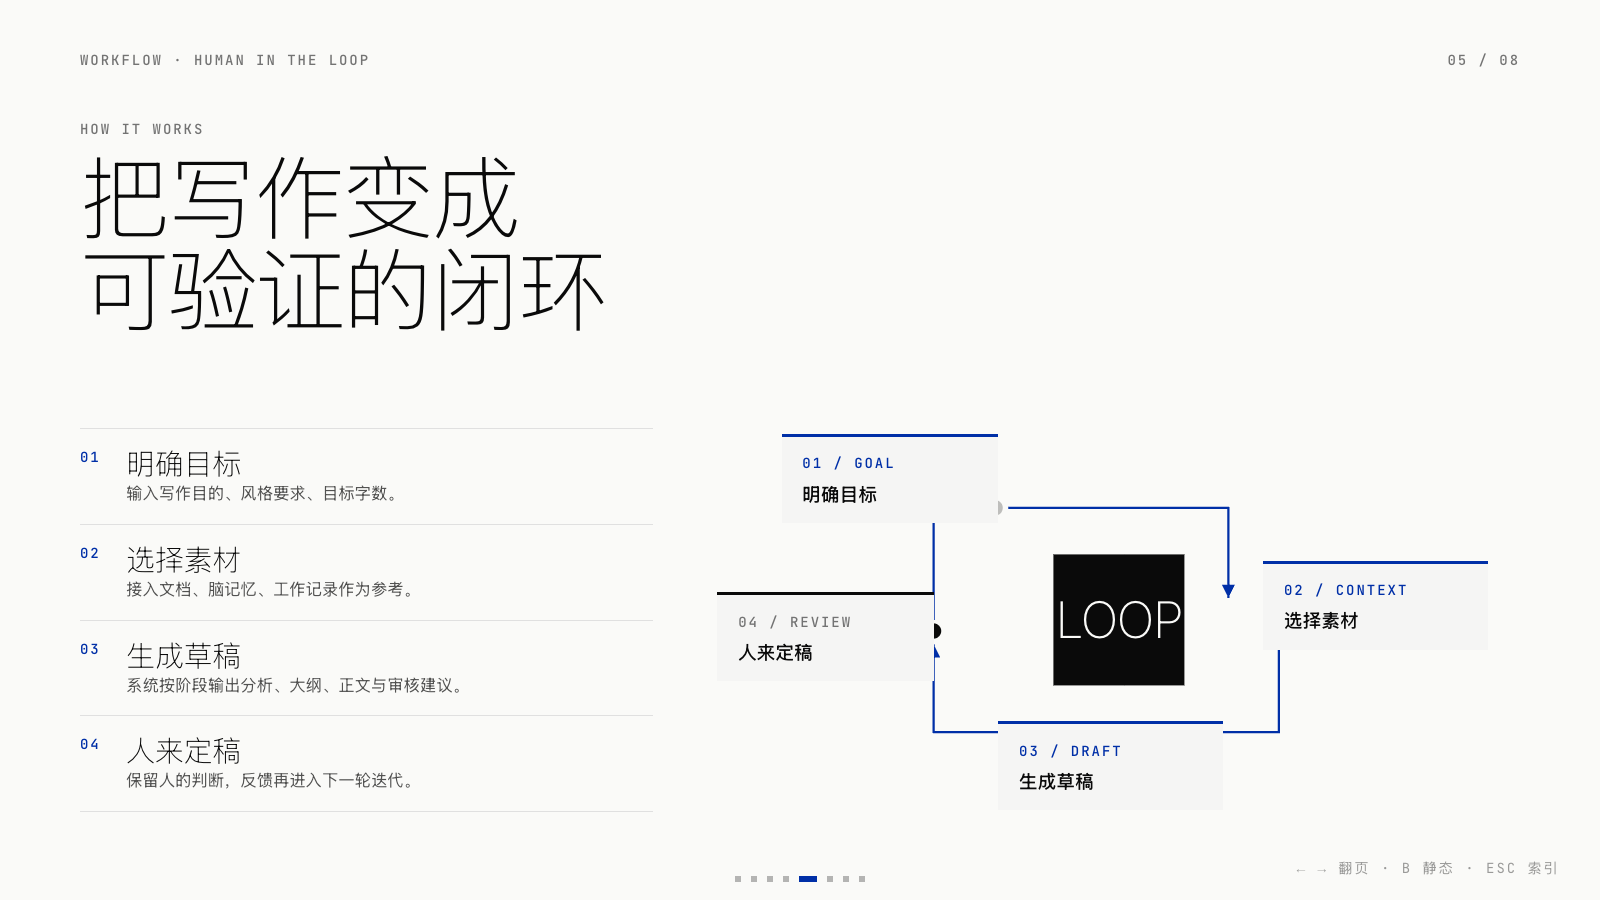
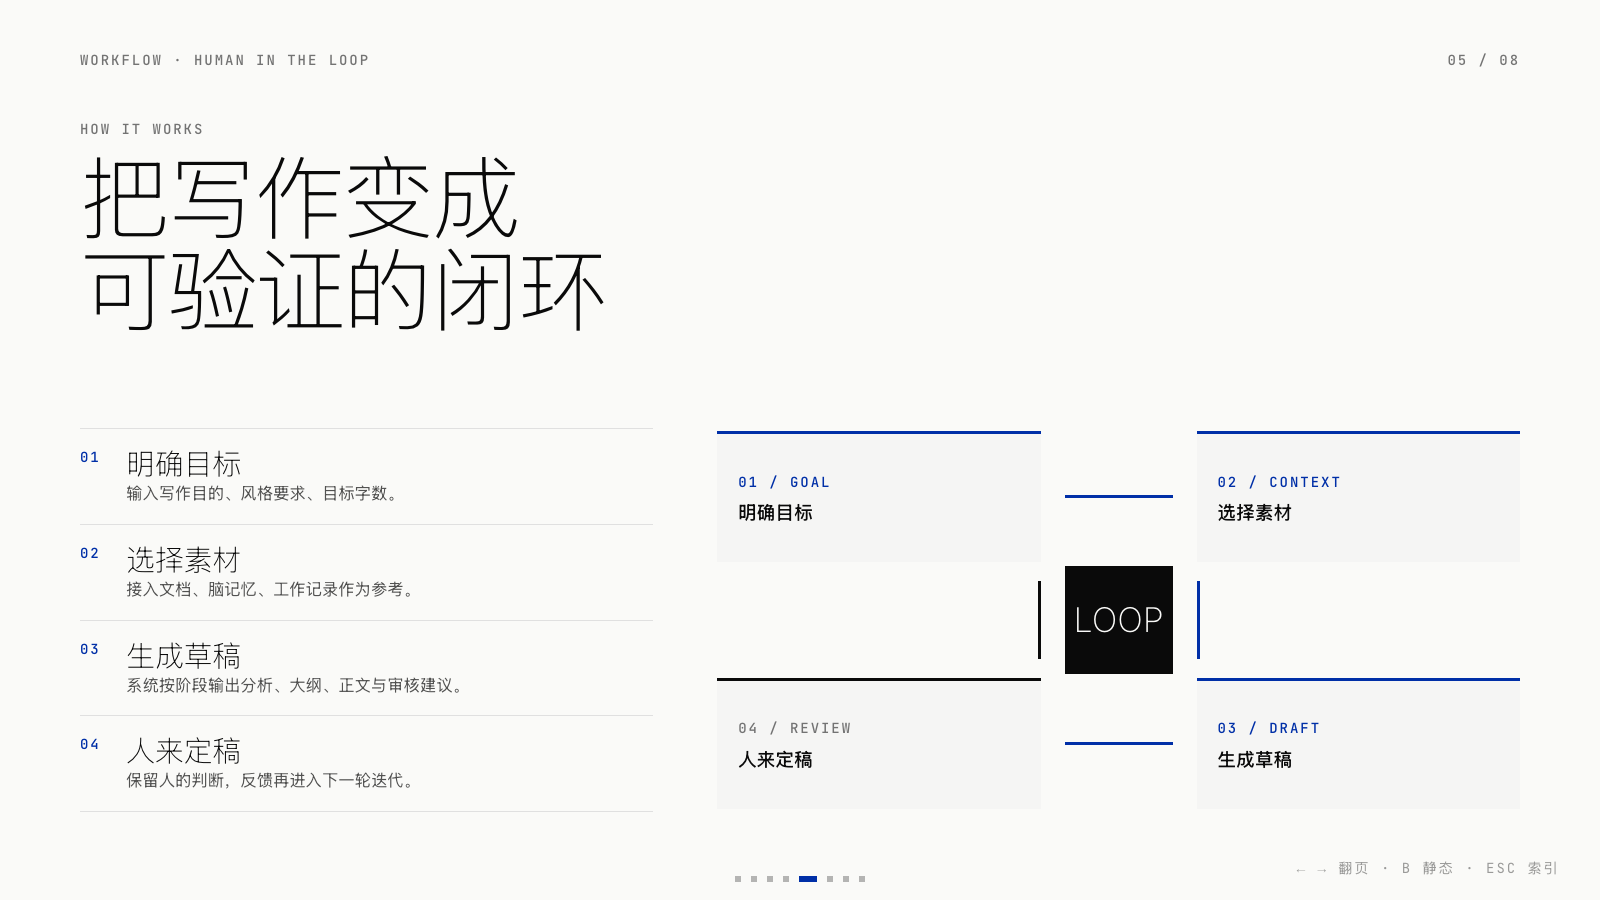
Fix AI deck diagram layouts

diff --git a/ai-competition-ppt/index.html b/ai-competition-ppt/index.html
@@ -1346,35 +1346,30 @@
             <p class="body-sm" style="color:rgba(255,255,255,.72)">生成内容、修改文档、沉淀反馈，回到工作现场。</p>
           </div>
         </div>
-        <div style="position:relative;min-height:43vh;display:grid;place-items:center">
-          <svg viewBox="0 0 620 360" width="100%" height="100%" aria-hidden="true" style="position:absolute;inset:0">
-            <line x1="164" y1="84" x2="304" y2="154" stroke="rgba(255,255,255,.34)" stroke-width="1"/>
-            <line x1="164" y1="180" x2="296" y2="180" stroke="rgba(255,255,255,.34)" stroke-width="1"/>
-            <line x1="164" y1="276" x2="304" y2="206" stroke="rgba(255,255,255,.34)" stroke-width="1"/>
-            <line x1="394" y1="180" x2="500" y2="180" stroke="var(--accent)" stroke-width="2"/>
-            <rect x="40" y="54" width="150" height="60" fill="none" stroke="rgba(255,255,255,.26)" stroke-width="1"/>
-            <rect x="40" y="150" width="150" height="60" fill="none" stroke="rgba(255,255,255,.26)" stroke-width="1"/>
-            <rect x="40" y="246" width="150" height="60" fill="none" stroke="rgba(255,255,255,.26)" stroke-width="1"/>
-          </svg>
-          <div style="position:absolute;z-index:1;left:5%;top:12%;width:24%;padding:1.2vh 1vw;border-top:2px solid rgba(255,255,255,.34)">
+        <div style="min-height:43vh;display:grid;grid-template-columns:minmax(0,1.16fr) 56px 124px 64px minmax(0,.9fr);grid-template-rows:repeat(3,minmax(72px,1fr));gap:1.8vh 1.2vw;align-items:center">
+          <div style="grid-column:1;grid-row:1;align-self:stretch;padding:1.35vh 1vw;border-top:2px solid rgba(255,255,255,.34);background:rgba(255,255,255,.035);display:flex;flex-direction:column;justify-content:center">
             <div class="t-meta" style="color:rgba(255,255,255,.66)">01 / DOC</div>
             <div style="margin-top:.7vh;font-family:var(--sans),var(--sans-zh);font-size:max(16px,1vw);font-weight:500;color:#fff">当前文档</div>
           </div>
-          <div style="position:absolute;z-index:1;left:5%;top:39%;width:24%;padding:1.2vh 1vw;border-top:2px solid rgba(255,255,255,.34)">
+          <div style="grid-column:2;grid-row:1;width:100%;height:1px;background:rgba(255,255,255,.34)"></div>
+          <div style="grid-column:1;grid-row:2;align-self:stretch;padding:1.35vh 1vw;border-top:2px solid rgba(255,255,255,.34);background:rgba(255,255,255,.035);display:flex;flex-direction:column;justify-content:center">
             <div class="t-meta" style="color:rgba(255,255,255,.66)">02 / MEMORY</div>
             <div style="margin-top:.7vh;font-family:var(--sans),var(--sans-zh);font-size:max(16px,1vw);font-weight:500;color:#fff">脑记忆</div>
           </div>
-          <div style="position:absolute;z-index:1;left:5%;bottom:9%;width:24%;padding:1.2vh 1vw;border-top:2px solid rgba(255,255,255,.34)">
+          <div style="grid-column:2;grid-row:2;width:100%;height:2px;background:rgba(255,255,255,.42)"></div>
+          <div style="grid-column:1;grid-row:3;align-self:stretch;padding:1.35vh 1vw;border-top:2px solid rgba(255,255,255,.34);background:rgba(255,255,255,.035);display:flex;flex-direction:column;justify-content:center">
             <div class="t-meta" style="color:rgba(255,255,255,.66)">03 / LOG</div>
             <div style="margin-top:.7vh;font-family:var(--sans),var(--sans-zh);font-size:max(16px,1vw);font-weight:500;color:#fff">工作记录</div>
           </div>
-          <div style="position:absolute;z-index:1;left:50%;top:50%;transform:translate(-50%,-50%);width:8.8vw;height:8.8vw;min-width:118px;min-height:118px;background:var(--accent-bright);display:flex;flex-direction:column;align-items:center;justify-content:center;color:#fff">
-            <div style="font-family:var(--sans);font-size:min(3.4vw,6vh);font-weight:200;line-height:.9;letter-spacing:-.035em">AI</div>
+          <div style="grid-column:2;grid-row:3;width:100%;height:1px;background:rgba(255,255,255,.34)"></div>
+          <div style="grid-column:3;grid-row:1 / 4;align-self:center;justify-self:center;width:124px;height:124px;background:var(--accent-bright);display:flex;flex-direction:column;align-items:center;justify-content:center;color:#fff">
+            <div style="font-family:var(--sans);font-size:52px;font-weight:200;line-height:.9">AI</div>
             <div class="t-meta" style="margin-top:1vh;color:rgba(255,255,255,.72);letter-spacing:.16em">CONTEXT</div>
           </div>
-          <div style="position:absolute;z-index:1;right:0;top:50%;transform:translateY(-50%);width:17%;padding:1.8vh 1vw;background:var(--paper);color:var(--ink);border-top:3px solid var(--accent-bright)">
+          <div style="grid-column:4;grid-row:2;width:100%;height:2px;background:var(--accent-bright)"></div>
+          <div style="grid-column:5;grid-row:1 / 4;align-self:center;padding:2vh 1.2vw;background:var(--paper);color:var(--ink);border-top:3px solid var(--accent-bright)">
             <div class="t-meta" style="color:var(--accent)">OUTPUT</div>
-            <div style="margin-top:.8vh;font-family:var(--sans),var(--sans-zh);font-size:max(16px,1vw);font-weight:500;color:var(--text-primary);line-height:1.35">生成<br/>修改<br/>沉淀</div>
+            <div style="margin-top:1vh;font-family:var(--sans),var(--sans-zh);font-size:max(17px,1.08vw);font-weight:500;color:var(--text-primary);line-height:1.42">生成内容<br/>修改文档<br/>沉淀反馈</div>
           </div>
         </div>
       </div>
@@ -1412,39 +1407,28 @@
             <div><h3 class="h-md" style="font-size:max(22px,1.8vw)">人来定稿</h3><p class="body-sm">保留人的判断，反馈再进入下一轮迭代。</p></div>
           </div>
         </div>
-        <div style="position:relative;min-height:44vh;display:grid;place-items:center">
-          <svg viewBox="0 0 560 360" width="100%" height="100%" aria-hidden="true" style="position:absolute;inset:0">
-            <defs>
-              <marker id="arrow-ai-loop" markerWidth="8" markerHeight="8" refX="6" refY="3" orient="auto">
-                <path d="M0,0 L6,3 L0,6" fill="var(--accent)"></path>
-              </marker>
-            </defs>
-            <path d="M180 78 H380 V160" fill="none" stroke="var(--accent)" stroke-width="2" marker-end="url(#arrow-ai-loop)"/>
-            <path d="M426 180 V282 H304" fill="none" stroke="var(--accent)" stroke-width="2" marker-end="url(#arrow-ai-loop)"/>
-            <path d="M280 282 H112 V202" fill="none" stroke="var(--accent)" stroke-width="2" marker-end="url(#arrow-ai-loop)"/>
-            <path d="M112 180 V78 H156" fill="none" stroke="var(--accent)" stroke-width="2" marker-end="url(#arrow-ai-loop)"/>
-            <circle cx="168" cy="78" r="7" fill="var(--ink)"/>
-            <circle cx="426" cy="180" r="7" fill="var(--ink)"/>
-            <circle cx="292" cy="282" r="7" fill="var(--ink)"/>
-            <circle cx="112" cy="190" r="7" fill="var(--ink)"/>
-          </svg>
-          <div class="card-fill" style="position:absolute;left:8%;top:3%;width:27%;padding:1.8vh 1.3vw;border-top:3px solid var(--accent)">
+        <div style="min-height:42vh;display:grid;grid-template-columns:minmax(0,1fr) 108px minmax(0,1fr);grid-template-rows:minmax(92px,auto) 78px minmax(92px,auto);gap:2.1vh 1.5vw;align-items:center">
+          <div class="card-fill" style="grid-column:1;grid-row:1;align-self:stretch;padding:1.8vh 1.3vw;border-top:3px solid var(--accent);display:flex;flex-direction:column;justify-content:center">
             <div class="t-meta" style="color:var(--accent)">01 / GOAL</div>
             <div style="margin-top:.8vh;font-family:var(--sans),var(--sans-zh);font-size:max(17px,1.15vw);font-weight:500;color:var(--text-primary)">明确目标</div>
           </div>
-          <div class="card-fill" style="position:absolute;right:4%;top:35%;width:28%;padding:1.8vh 1.3vw;border-top:3px solid var(--accent)">
+          <div style="grid-column:2;grid-row:1;width:100%;height:3px;background:var(--accent);align-self:center"></div>
+          <div class="card-fill" style="grid-column:3;grid-row:1;align-self:stretch;padding:1.8vh 1.3vw;border-top:3px solid var(--accent);display:flex;flex-direction:column;justify-content:center">
             <div class="t-meta" style="color:var(--accent)">02 / CONTEXT</div>
             <div style="margin-top:.8vh;font-family:var(--sans),var(--sans-zh);font-size:max(17px,1.15vw);font-weight:500;color:var(--text-primary)">选择素材</div>
           </div>
-          <div class="card-fill" style="position:absolute;left:35%;bottom:2%;width:28%;padding:1.8vh 1.3vw;border-top:3px solid var(--accent)">
-            <div class="t-meta" style="color:var(--accent)">03 / DRAFT</div>
-            <div style="margin-top:.8vh;font-family:var(--sans),var(--sans-zh);font-size:max(17px,1.15vw);font-weight:500;color:var(--text-primary)">生成草稿</div>
-          </div>
-          <div class="card-fill" style="position:absolute;left:0;top:43%;width:27%;padding:1.8vh 1.3vw;border-top:3px solid var(--ink)">
+          <div style="grid-column:1;grid-row:2;justify-self:end;width:3px;height:100%;background:var(--ink)"></div>
+          <div style="grid-column:2;grid-row:2;background:var(--ink);color:var(--paper);width:108px;height:108px;display:flex;align-items:center;justify-content:center;font-family:var(--sans);font-weight:200;font-size:34px;line-height:1">LOOP</div>
+          <div style="grid-column:3;grid-row:2;justify-self:start;width:3px;height:100%;background:var(--accent)"></div>
+          <div class="card-fill" style="grid-column:1;grid-row:3;align-self:stretch;padding:1.8vh 1.3vw;border-top:3px solid var(--ink);display:flex;flex-direction:column;justify-content:center">
             <div class="t-meta">04 / REVIEW</div>
             <div style="margin-top:.8vh;font-family:var(--sans),var(--sans-zh);font-size:max(17px,1.15vw);font-weight:500;color:var(--text-primary)">人来定稿</div>
           </div>
-          <div style="position:absolute;left:50%;top:50%;transform:translate(-50%,-50%);background:var(--ink);color:var(--paper);width:8.2vw;height:8.2vw;min-width:108px;min-height:108px;display:flex;align-items:center;justify-content:center;font-family:var(--sans);font-weight:200;font-size:min(3.2vw,5.6vh);letter-spacing:-.035em">LOOP</div>
+          <div style="grid-column:2;grid-row:3;width:100%;height:3px;background:var(--accent);align-self:center"></div>
+          <div class="card-fill" style="grid-column:3;grid-row:3;align-self:stretch;padding:1.8vh 1.3vw;border-top:3px solid var(--accent);display:flex;flex-direction:column;justify-content:center">
+            <div class="t-meta" style="color:var(--accent)">03 / DRAFT</div>
+            <div style="margin-top:.8vh;font-family:var(--sans),var(--sans-zh);font-size:max(17px,1.15vw);font-weight:500;color:var(--text-primary)">生成草稿</div>
+          </div>
         </div>
       </div>
     </div>
@@ -2307,12 +2291,7 @@ if(motion){
       });
     });
 
-    /* 下方注释列 */
-    const cols = [...stage.querySelectorAll(':scope > div:last-child > div')];
-    cols.forEach((col, i)=>{
-      animate(col, {opacity:[0,1], y:[12, 0]},
-        {duration:.45, delay:1.3 + i*.1, easing:EASE_ENTRY_EXP});
-    });
+    /* 右侧图形是关键信息块,只让整体入场,避免内部模块在截图或低性能投屏时保持隐藏状态。 */
   }
 
   /* ---------- recipe: why-now · P18 三列 + 巨大底数 ----------
